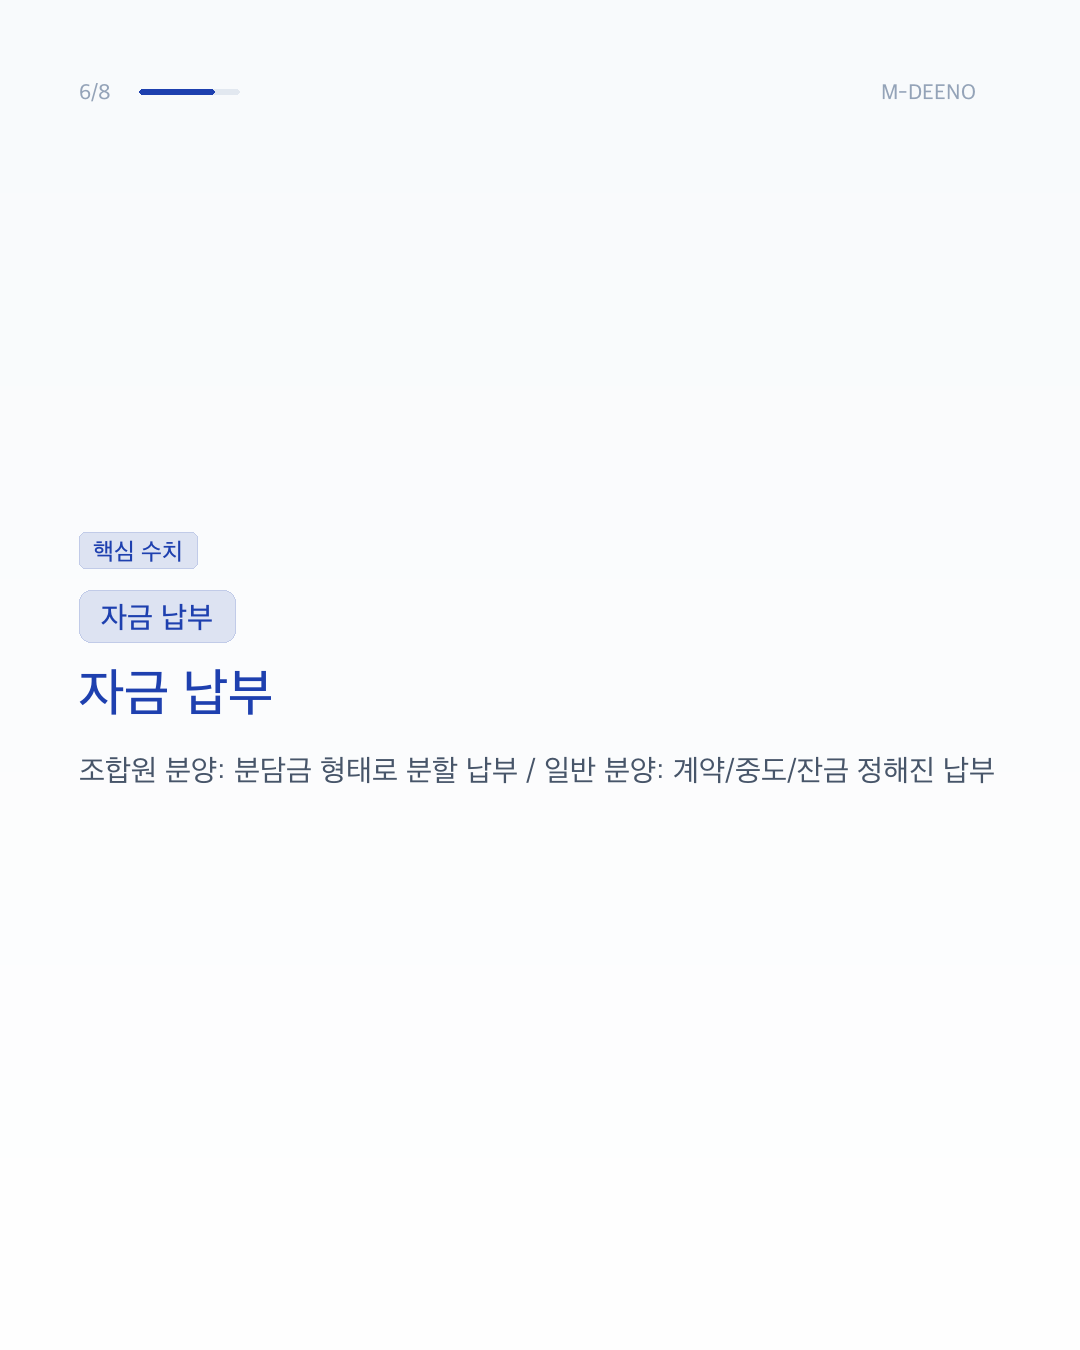
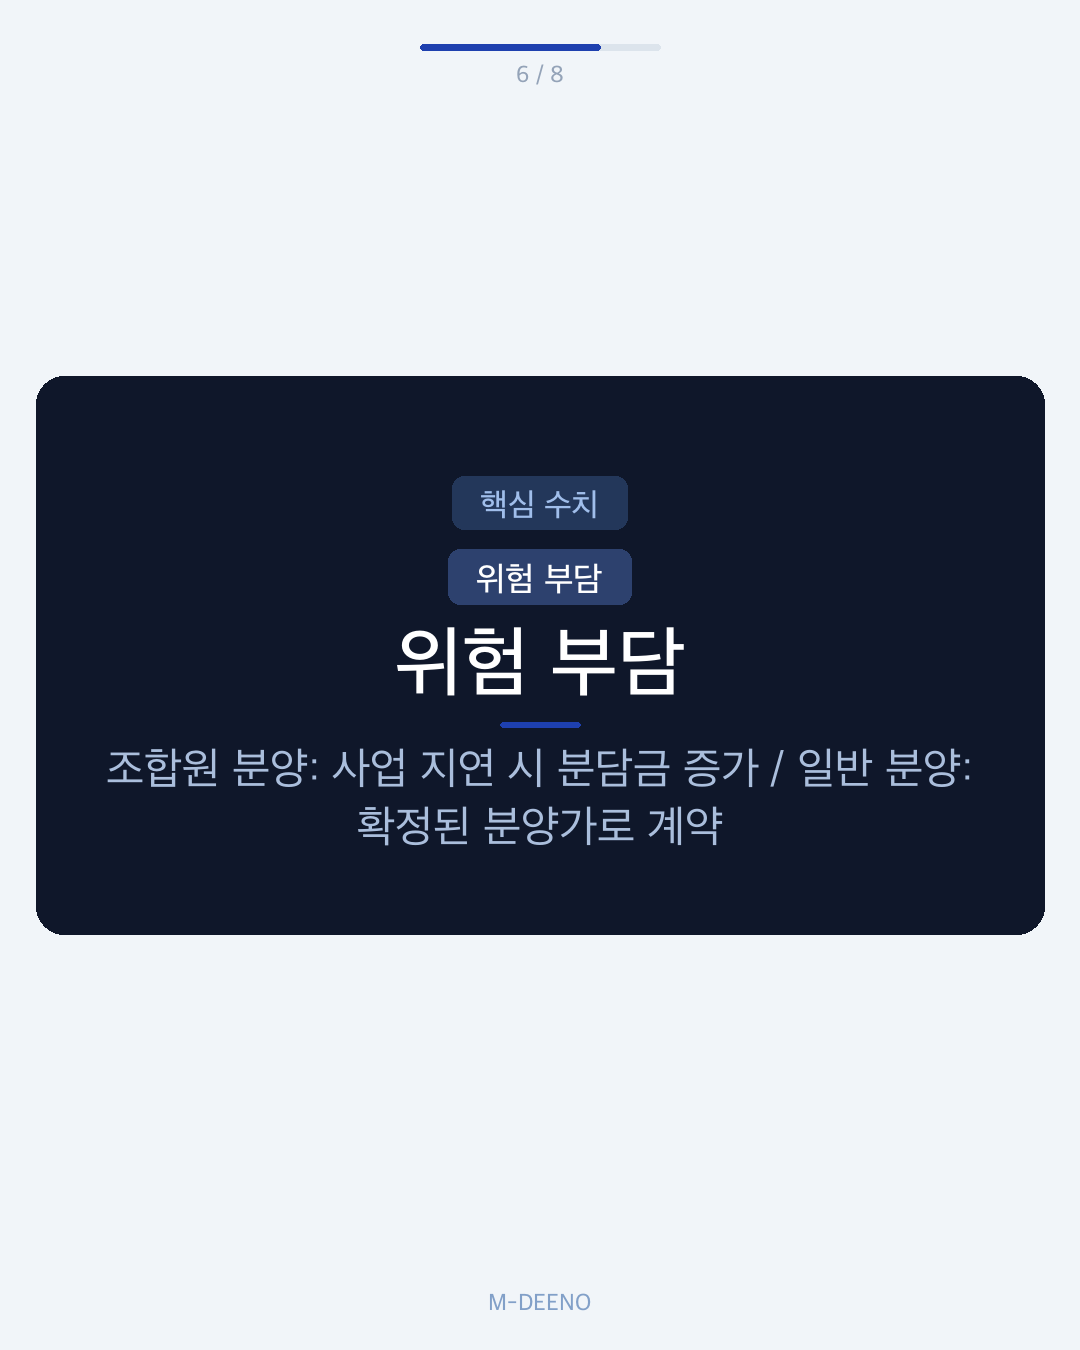
Auto Post: 2026-04-05-여의도-시범-기부채납,-조합원-분담금-2억-더-늘리는-구조.md

diff --git a/content/posts/reconstruction/2026-04-05-여의도-시범-기부채납,-조합원-분담금-2억-더-늘리는-구조.md b/content/posts/reconstruction/2026-04-05-여의도-시범-기부채납,-조합원-분담금-2억-더-늘리는-구조.md
@@ -1,0 +1,193 @@
+---
+title: "여의도 시범 기부채납, 조합원 분담금 2억 더 늘리는 구조"
+date: 2026-04-05T15:34:15+09:00
+draft: false
+categories: ["재건축/재개발"]
+tags: ["여의도 시범 재건축 분담금 기부채납", "부동산투자", "분담금예측", "데이터분석", "재테크"]
+description: "2026년 여의도 시범 재건축 분담금과 기부채납 분석 핵심 정리. 기부채납 1%p 차이가 조합원당 2,300만 원을 좌우합니다. 여의도 3개 단지 비교와 공사비 시나리오별 분담금을 지금 무료로 확인하세요."
+image: "/images/chart-1775371311.png"
+---
+
+
+
+
+![여의도 시범 재건축 분담금 기부채납 분석 차트 — M-DEENO 데이터 시뮬레이션](/images/chart-1775371311.png)
+*▲ 여의도 시범 재건축 분담금 기부채납 M-DEENO AI 분석 시뮬레이션 (2026-04-05 기준)*
+
+---
+
+2026년 여의도 시범 재건축 분담금과 기부채납 분석이 본격화되는 지금, 기부채납(서울시에 토지·공익 시설을 무상 제공하는 조건) 비율이 단 1%포인트 오를 때마다 조합원 1인당 평균 2,300만 원이 청구서에 추가됩니다.
+
+30년 넘게 살아온 여의도 시범 아파트가 분담금 부담으로 오히려 짐이 될 수 있다는 사실, 받아들이기 쉽지 않습니다.
+
+지금부터 여의도 시범·한양·공작 3개 단지의 공시가격·공사비 단가·기부채납 조건을 바탕으로, 시나리오별 분담금이 어떻게 달라지는지 단계별로 짚어드립니다.
+
+<div class='lab-card'>
+**2026년 여의도 시범 재건축 분담금 핵심 요약**
+
+- 기부채납(서울시에 토지·시설을 무상 제공하는 조건) 비율 1%p 상승 → 조합원 1인당 약 2,300만 원 추가 영향
+- 여의도 3개 단지(시범·한양·공작) 전용 84㎡ 기준 예상 분담금: 1.8억~4.7억 원대 편차
+- 관리처분(이주·철거 직전 단계로 분담금 확정 시점) 총회 이후 이의제기는 사실상 불가능
+- 기부채납 협상 결과 확정 전이 조합원이 목소리를 낼 수 있는 유일한 시점
+</div>
+
+[내 단지 분담금 시나리오 바로 확인하기 →](https://mdeeno.com/member)
+
+
+## 여의도 3개 단지 분담금 비교 — 숫자가 말하는 현실
+
+여의도 재건축 단지들은 같은 생활권임에도 기부채납 조건, 용적률(대지 면적 대비 건물 총 연면적 비율) 인센티브, 평형 구성에 따라 분담금 추정치가 2배 이상 벌어집니다.
+
+아래 수치는 서울시 정비사업 정보몽땅 공개 데이터와 각 조합 총회 의결 공사비 단가(㎡당 680만~750만 원 구간)를 기반으로 한 대략적인 추정치입니다. [국토교통부 실거래가 공개시스템](https://rt.molit.go.kr/) 확인을 권장합니다.
+
+| 단지 | 전용 84㎡ 권리가액(추정) | 조합원 분양가(추정) | 예상 분담금 범위 | 기부채납 현황 |
+|------|------|------|------|------|
+| 여의도 시범 | 5.5억~6.5억 원대 | 8.0억~9.5억 원대 | 1.8억~3.5억 원대 | 협상 중 (15~20% 구간 예상) |
+| 여의도 한양 | 4.8억~5.8억 원대 | 8.0억~9.0억 원대 | 2.4억~4.2억 원대 | 15% 수용 후 비례율 하락 진행 |
+| 여의도 공작 | 3.5억~4.5억 원대 | 7.5억~8.5억 원대 | 3.2억~4.7억 원대 | 미정 (소형 평형 밀집) |
+
+*위 수치는 최근 사례 기준 대략적인 추정치이며, 확정 분담금과 다를 수 있습니다.*
+
+**여의도 시범**은 현재 용적률 360% 적용을 위한 기부채납 협상을 진행 중입니다. 조합이 총회에서 제시하는 분담금 추정치는 '기부채납 최소화' 시나리오를 기반으로 하는 경우가 많습니다. 기부채납 비율이 15%에서 17%로 2%p 상승하면 조합원 1인당 약 4,600만 원이 추가됩니다.
+
+**여의도 한양**은 기부채납 15% 조건 수용 이후 비례율(사업 수익성 지수. 100% 이하면 추가 분담금 발생)이 기존 예상치보다 하락하고 있습니다. 비례율이 내려가면 권리가액(비례율을 적용한 내 실질 지분 가치)도 자동으로 줄어들어, 같은 조합원 분양가를 적용받더라도 추가분담금(조합원 분양가에서 권리가액을 뺀 금액)이 늘어납니다.
+
+**여의도 공작**은 소형 평형(전용 49~59㎡)이 전체 세대의 60% 이상을 차지합니다. 종전자산(재건축 전 내 아파트의 감정평가 금액) 감정평가 금액이 낮은 소형 평형은 대형 평형과 동일한 조합원 분양가를 적용받을 경우 분담금이 역전되는 현상이 나타납니다. 공작 단지의 예상 분담금 범위가 시범보다 높게 추정되는 구조적 이유입니다.
+
+세 단지 중 기부채납 협상이 가장 유동적인 여의도 시범의 조합원이 가장 넓은 분담금 불확실성 구간에 놓여 있습니다.
+
+
+<div class="blog-cta-box blog-cta-box--primary">
+  <p class="blog-cta-box__hook">⚠ 공사비 10% 오르면, 내 분담금은 최대 7배 뜁니다</p>
+  <p class="blog-cta-box__desc">
+    내 단지는 얼마나 위험한지, 30초면 무료로 확인할 수 있습니다.<br>회원가입도 필요 없습니다.
+  </p>
+  <a href="https://mdeeno.com/member?utm_source=blog&utm_medium=post_cta&utm_campaign=auto_post" target="_blank" rel="noopener noreferrer"
+     onclick="typeof gtag !== 'undefined' && gtag('event', 'blog_to_mvp_click', {page: window.location.pathname})"
+     class="blog-cta-box__btn">
+    내 분담금 무료 분석하기 →
+  </a>
+</div>
+
+
+
+
+## 여의도 시범 2026년 재건축 분담금과 기부채납 분석 — 구조적 함정의 실체
+
+기부채납을 단순히 '땅을 일부 내어주는 것'으로 이해하면 비례율 손실의 전체 규모를 놓치게 됩니다.
+
+<div class='lab-formula-box'>
+**비례율 = (총수입 − 총사업비) ÷ 총자산평가액 × 100**
+
+- 총수입: 일반분양 수입 + 상가·부대시설 분양 수입
+- 총사업비: 공사비 + PF 금융비용 + 기부채납 조성비 + 이주비
+- 총자산평가액: 전체 조합원 종전자산(감정평가 금액) 합계
+
+기부채납 비율 상승 → 총사업비 증가 + 총자산평가액 감소 → 비례율 이중 압박 → 권리가액 하락 → 분담금 증가
+</div>
+
+서울시 '2030 여의도 마스터플랜'은 용적률 인센티브 조건으로 공공기여(기부채납) 비율 강화를 요구합니다. 단지 입장에서는 용적률 인센티브 없이 사업성을 확보하기 어렵기 때문에, 기부채납 협상은 사실상 '얼마나 적게 줄 것인가'의 줄다리기입니다.
+
+아래는 여의도 시범 기준, 기부채납 비율 변화에 따른 시나리오별 분담금 추정입니다. 전용 84㎡, 최근 사례 기준 대략적인 호가 수준이며 [국토교통부 실거래가 공개시스템](https://rt.molit.go.kr/) 확인을 권장합니다.
+
+| 기부채납 비율 시나리오 | 비례율(추정) | 권리가액 변화 | 예상 분담금 범위 |
+|------|------|------|------|
+| 기본 (15%) | 약 92~95% | 기준 | 1.8억~2.5억 원대 |
+| 스트레스 (17%) | 약 87~91% | 약 −1,800만~−2,300만 원 | 2.5억~3.2억 원대 |
+| 고위험 (20%) | 약 80~86% | 약 −3,500만~−4,500만 원 | 3.2억~4.2억 원대 |
+
+*확정 분담금은 관리처분 총회에서 결정됩니다. [국토교통부 실거래가 공개시스템](https://rt.molit.go.kr/) 확인 권장.*
+
+**기부채납이 오를수록 비례율이 하락하고, 비례율이 하락할수록 내 권리가액이 줄어드는 이중 구조**가 동시에 작동합니다.
+
+여기에 PF(프로젝트 파이낸싱) 금리 변수까지 더해집니다. 현재 PF금리는 연 5.8% 수준으로, 공사 기간이 1개월 연장될 때마다 조합원당 평균 480만 원이 추가됩니다. 여의도 시범 규모(약 1,790세대)에서 공기가 6개월 지연되면 조합 전체 추가 금융 비용은 수백억 원에 달합니다.
+
+도정법(도시 및 주거환경정비법) 제55조는 기부채납 대상과 기준을 명시하고 있지만, 실제 협상력은 조합과 서울시의 교섭 과정에서 결정됩니다. 서울시 공공기여 가이드라인(2024)은 여의도 재건축 단지들에 대한 공공기여 요구 수준을 강화하는 방향으로 작동하고 있습니다. 조합원이 이 협상 결과를 단순히 수용하는 것과, 시나리오별 분담금을 직접 계산해보고 총회에 참석하는 것 사이의 차이는 수천만 원이 될 수 있습니다.
+
+
+## 내 권리가액은 실제 얼마인가 — 직접 계산해야 하는 이유
+
+조합이 총회에서 제시하는 분담금 추정치에는 공통된 패턴이 있습니다.
+
+* **공사비 단가를 낮게 설정** — 현재 입찰 단가는 750만 원/㎡ 수준이지만, 추정치는 680만 원/㎡를 기준으로 계산하는 경우가 있습니다.
+* **기부채납 비율 최소화 가정** — 협상이 진행 중임에도 기부채납 15% 기준을 전제합니다.
+* **PF금리 동결 가정** — 금리 추가 상승 가능성을 분담금 추정에 반영하지 않습니다.
+
+M-DEENO 분석 엔진에 따르면, 여의도 시범의 경우 공사비 단가 10% 상승 + 기부채납 2%p 추가 복합 시나리오를 적용하면 전용 84㎡ 기준 추가분담금이 기본 시나리오 대비 최대 8,000만 원 이상 증가할 수 있습니다.
+
+아래는 공사비 단가별 분담금 변화 시뮬레이션입니다. 전용 84㎡, 최근 사례 기준 대략적인 추정치이며 [국토교통부 실거래가 공개시스템](https://rt.molit.go.kr/) 확인을 권장합니다.
+
+| 공사비 단가 시나리오 | 총사업비 증가(추정) | 비례율(추정) | 분담금 변화 |
+|------|------|------|------|
+| 680만 원/㎡ (기본) | 기준 | 약 93% | 기준 |
+| 720만 원/㎡ (스트레스) | +500억~700억 원대 | 약 89% | +2,500만~3,500만 원 |
+| 750만 원/㎡ (고위험) | +900억~1,200억 원대 | 약 85% | +5,000만~7,000만 원 |
+
+*[국토교통부 실거래가 공개시스템](https://rt.molit.go.kr/) 확인 권장.*
+
+관리처분 총회가 열리기 전인 지금이 분담금 시나리오를 직접 검증할 수 있는 마지막 시점입니다. '조합이 준 숫자만 믿다가 수천만 원 더 냈다'는 사례는 서울 주요 재건축 단지에서 반복되고 있습니다.
+
+분담금 대출 가능 여부는 [📉 DSR & 대출 한도 계산기](https://tech.mdeeno.com/calculators/calc_dsr/)로 미리 점검하고, 내 단지 전용 분담금 시나리오는 지금 바로 [mdeeno.com/member](https://mdeeno.com/member)에서 확인하시기 바랍니다.
+
+---
+
+기부채납 비율 1%p 차이가 여의도 시범 조합원 1인당 최대 2,300만 원, 공사비 단가 10% 상승이 추가로 5,000만~7,000만 원을 결정합니다. M-DEENO 분석 엔진으로 공사비 단가·기부채납 비율·PF금리 3개 변수를 조합한 시나리오별 분담금을 5분 안에 확인할 수 있습니다. 관리처분 총회 이전인 지금이 조합원이 대응할 수 있는 유일한 시점입니다. 지금 바로 내 단지의 분담금 위험도를 [mdeeno.com/member](https://mdeeno.com/member)에서 조회해 보시기 바랍니다.
+
+---
+
+### Q1. 기부채납 비율이 높으면 무조건 손해인가요?
+
+기부채납이 높아지면 서울시로부터 용적률 인센티브를 더 받아 일반분양 수입이 늘어날 수 있습니다. 그러나 인센티브로 늘어나는 수입보다 기부채납 조성비 증가와 총자산평가액 감소 효과가 클 경우 비례율이 오히려 하락합니다. 단지별 규모·평형 구성·분양가 수준에 따라 결과가 달라지므로 반드시 시나리오 시뮬레이션을 직접 돌려봐야 합니다.
+
+### Q2. 분담금 리스크를 미리 확인할 수 있나요?
+
+관리처분 총회 전이라면 직접 계산으로 스트레스 시나리오를 검증할 수 있습니다. [mdeeno.com/member](https://mdeeno.com/member)에서 전용면적·공시가격·예상 분양가·기부채납 비율을 입력하면 베이스·스트레스·고위험 3개 시나리오 분담금을 즉시 확인할 수 있습니다. 총회 참석 전 반드시 점검하시기 바랍니다.
+
+### Q3. 비례율이 100% 미만이면 어떻게 되나요?
+
+비례율이 100%를 밑돌면 내 종전자산보다 권리가액이 낮아집니다. 예를 들어 종전자산이 6억 원이고 비례율이 88%이면 권리가액은 5억 2,800만 원으로 줄어듭니다. 조합원 분양가에서 이 권리가액을 뺀 금액 전부가 추가분담금으로 청구됩니다.
+
+
+
+
+{{< ad_cpa type="finance" >}}
+
+
+
+
+<div class="blog-cta-box blog-cta-box--secondary">
+  <p class="blog-cta-box__hook">⚠ 공사비 10% 오르면, 내 분담금은 최대 7배 뜁니다</p>
+  <p class="blog-cta-box__desc">
+    내 단지는 얼마나 위험한지, 30초면 무료로 확인할 수 있습니다.<br>회원가입도 필요 없습니다.
+  </p>
+  <a href="https://mdeeno.com/member?utm_source=blog&utm_medium=post_cta&utm_campaign=auto_post" target="_blank" rel="noopener noreferrer"
+     class="blog-cta-box__btn">
+    내 아파트 분담금 시뮬레이션 →
+  </a>
+</div>
+
+
+---
+> **※ 본 리포트는 M-DEENO 분석 엔진을 활용한 시뮬레이션 분석입니다.**
+
+
+
+---
+
+
+<div class="blog-calc-box">
+    <p class="blog-calc__label">🧮 직접 계산해보기</p>
+    <a href="https://tech.mdeeno.com/calculators/calc_subscription/" target="_blank" class="blog-calc__btn">
+        <strong>🏆 청약 가점 계산기 바로가기</strong>
+    </a>
+</div>
+
+📉 **이주비 대출 한도 미리 확인**
+👉 <a href="https://tech.mdeeno.com/calculators/calc_dsr/" target="_blank"><strong>💰 DSR 기준 대출 한도 계산기</strong></a>
+
+<br><hr><small>📢 **면책 조항**<br>해당 리포트는 가상 시나리오를 바탕으로 작성되었습니다. 투자 시 유의하세요. 투자의 책임은 본인에게 있습니다.</small>
+## 함께 읽으면 좋은 글
+
+- [같은 목동인데 분담금이 1.4억 차이 나는 이유](/posts/reconstruction/2026-03-24-같은-목동인데-분담금이-14억-차이-나는-이유/)
+- [은마 34평, 분담금 2억 경고 — 이주 전 확인할 숫자](/posts/reconstruction/2026-03-27-은마-34평-분담금-2억-경고-—-이주-전-확인할-숫자/)
+- [용적률 320% 받았는데 분담금 1억? 중동 조합원의 착각](/posts/reconstruction/2026-03-31-용적률-320-받았는데-분담금-1억-중동-조합원의-착각/)
